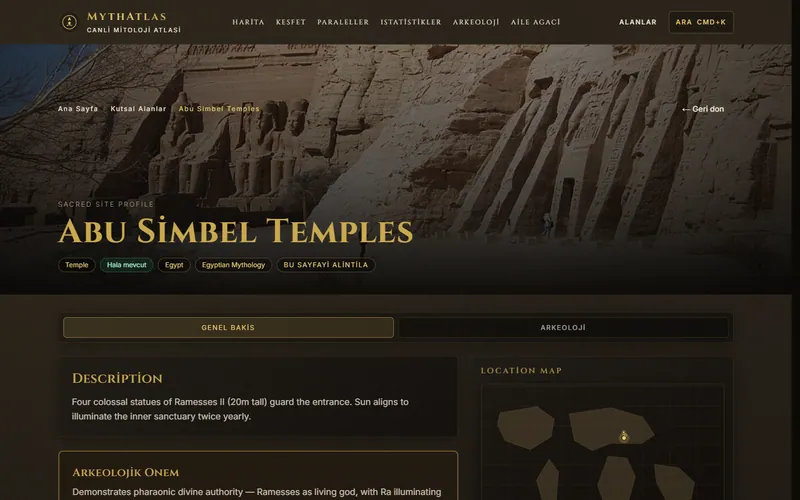
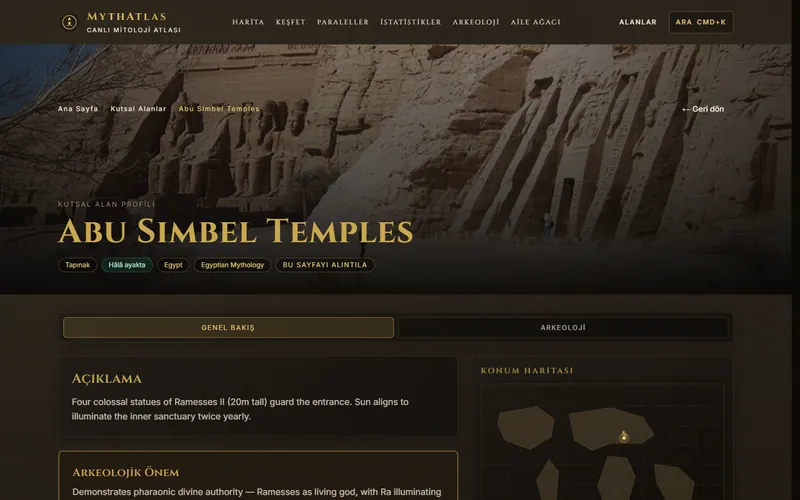
MythAtlas: canlı demo bağlantısı ve yeni vitrin kareleri
MythAtlas 2026-10-26'dan beri GitHub Pages'te yayında. Proje tipine
isteğe bağlı demoUrl eklendi; künyede repo gibi bağlantı olarak durur.
Kareler canlı siteden yeniden çekildi (Türkçe arayüz, CARTO altlığı);
görseli olmayan İlyada karesi yerine Gılgamış Destanı sayfası.

diff --git a/content/projeler/mythatlas.ts b/content/projeler/mythatlas.ts
@@ -15,9 +15,10 @@ export const mythatlas: Proje = {
   },
   donem: { tr: 'Mar 2026 – Eyl 2026', en: 'Mar 2026 – Sep 2026' },
   yil: 202609,
-  durum: { tr: 'Çalışır; statik veri', en: 'Working; static data' },
+  durum: { tr: 'Yayında; statik site (GitHub Pages)', en: 'Live; static site (GitHub Pages)' },
   repo: { acik: true, url: 'https://github.com/Scryne/MythAtlas' },
-  demo: { tr: 'Yok. Yerelde derlenip çalışır.', en: 'None. Builds and runs locally.' },
+  demo: { tr: 'Canlı, GitHub Pages’te statik yayın.', en: 'Live, static build on GitHub Pages.' },
+  demoUrl: 'https://scryne.github.io/MythAtlas/',
   stack: [
     { grup: { tr: 'Frontend', en: 'Frontend' }, ogeler: 'Next.js 16 (App Router), React 19, TypeScript, Tailwind, Framer Motion' },
     { grup: { tr: 'Harita ve grafik', en: 'Maps and charts' }, ogeler: 'MapLibre GL 6, Recharts, d3-force' },
@@ -128,8 +129,8 @@ export const mythatlas: Proje = {
     { ad: 'harita', aciklama: { tr: 'Dünya haritası: mitoloji kümeleri.', en: 'World map: mythology clusters.' } },
     { ad: 'zeus', aciklama: { tr: 'Tanrı sayfası: Zeus.', en: 'Deity page: Zeus.' } },
     { ad: 'abu-simbel', aciklama: { tr: 'Alan sayfası: Abu Simbel, artık doğru görselle.', en: 'Site page: Abu Simbel, now with the right image.' } },
-    { ad: 'ilyada', aciklama: { tr: 'Mit sayfası: Akhilleus ve İlyada.', en: 'Myth page: Achilles and the Iliad.' } },
-    { ad: 'soy-agaci', aciklama: { tr: 'Soy ağacı.', en: 'Family tree.' } },
-    { ad: 'arkeoloji', aciklama: { tr: 'Arkeoloji katmanı.', en: 'Archaeology layer.' } },
+    { ad: 'gilgamis', aciklama: { tr: 'Mit sayfası: Gılgamış Destanı.', en: 'Myth page: the Epic of Gilgamesh.' } },
+    { ad: 'soy-agaci', aciklama: { tr: 'Mitolojiler arası etki ağı.', en: 'Influence network across mythologies.' } },
+    { ad: 'arkeoloji', aciklama: { tr: 'Arkeoloji merkezi: Wikidata’yla doğrulanmış UNESCO alanları.', en: 'Archaeology hub: UNESCO sites verified against Wikidata.' } },
   ],
 };

diff --git a/components/ProjeSayfasi.tsx b/components/ProjeSayfasi.tsx
@@ -128,7 +128,16 @@ export function ProjeSayfasi({ p, dil }: { p: Proje; dil: Dil }) {
                 )}
               </dd>
               <dt className="etiket pt-0.5 text-yazi-3">{M.demo[dil]}</dt>
-              <dd className="text-[0.9375rem] text-yazi">{p.demo[dil]}</dd>
+              <dd className="text-[0.9375rem] text-yazi">
+                {p.demoUrl ? (
+                  <a href={p.demoUrl} className="baglanti inline-flex items-center gap-1" target="_blank" rel="noopener noreferrer">
+                    {p.demoUrl.replace('https://', '').replace(/\/$/, '')}
+                    <ArrowUpRight aria-hidden className="size-3.5" />
+                  </a>
+                ) : (
+                  p.demo[dil]
+                )}
+              </dd>
             </dl>
           </div>
         </div>

diff --git a/lib/tipler.ts b/lib/tipler.ts
@@ -54,6 +54,8 @@ export type Proje = {
   durum: Ik;
   repo: { acik: true; url: string } | { acik: false };
   demo: Ik;
+  /** Canlı demo adresi. Verilirse künyede `demo` metninin yerine bağlantı olarak durur. */
+  demoUrl?: string;
   stack: { grup: Ik; ogeler: string }[];
   olcek: { ad: Ik; deger: Ik }[];
   olcumler: Olcum[];
